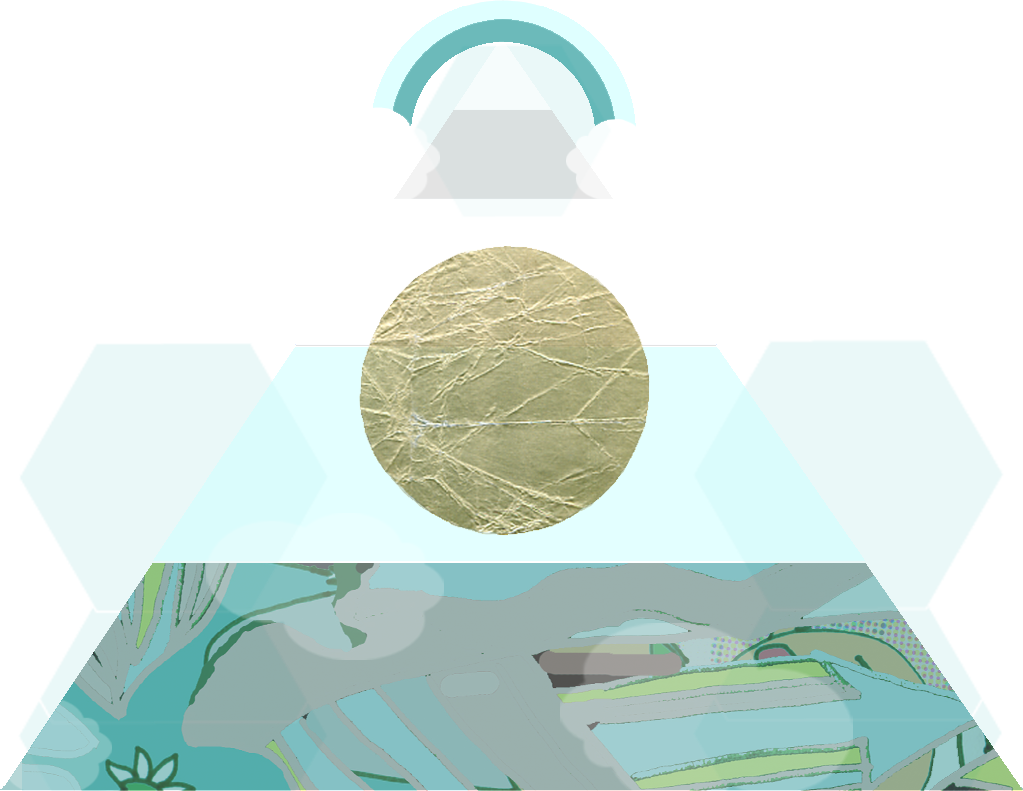
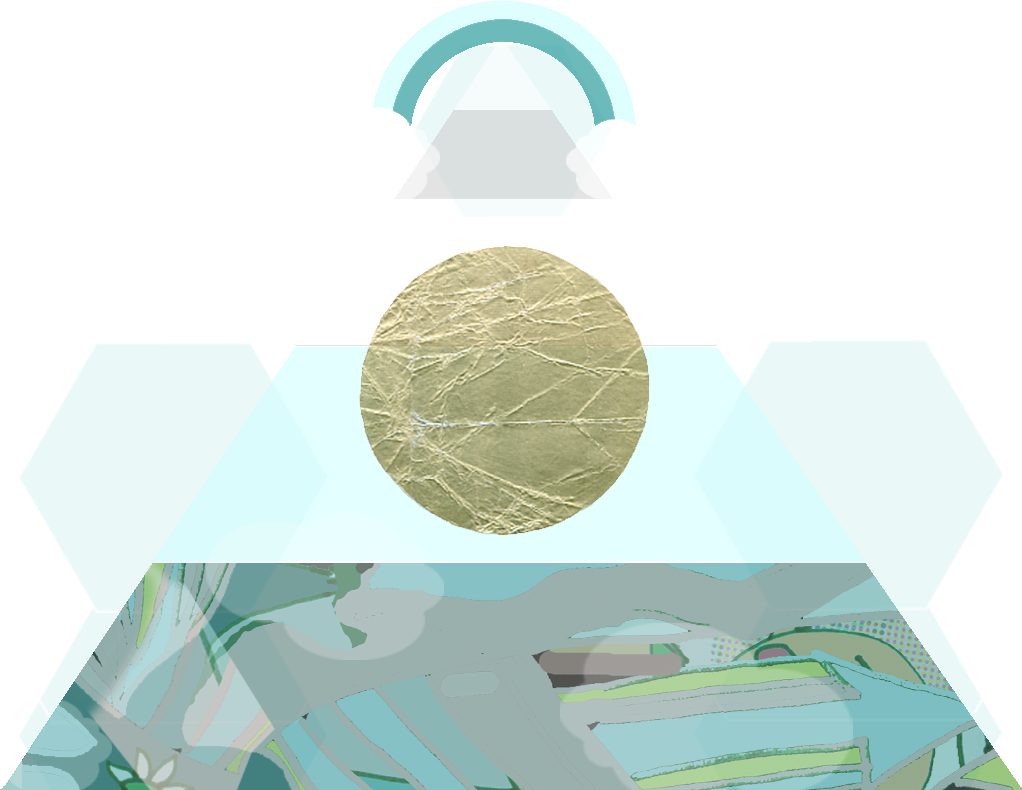
new

diff --git a/public/stylesheets/scaffold.css b/public/stylesheets/scaffold.css
@@ -216,9 +216,9 @@ pre {
   font-size: 11px;
 }
 
-a { color: #FFFFFF; }
-a:visited { color: #FFFFFF; }
-a:hover { color: #788e87; 
+a { color: #3e837f; }
+a:visited { color: #3e837f; }
+a:hover { color: #FFFFFF; 
 }
 
 

diff --git a/public/parallax-scrolling-demo/css/main.css b/public/parallax-scrolling-demo/css/main.css
@@ -316,7 +316,7 @@ nav.next-prev {
 		}
 	#bg3-4 {
 		position: absolute;
-		top: 2334px;
+		top: 1834px;
 		left: -83px;
 		}
 /* midground (clouds) */
